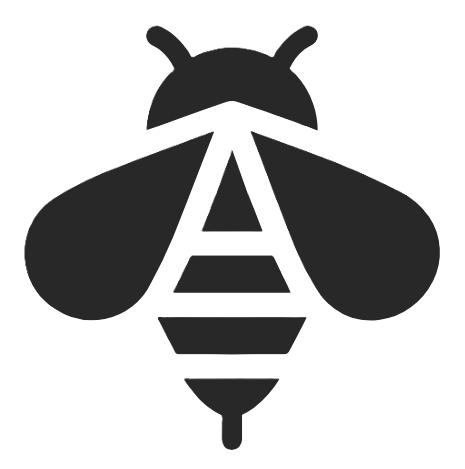
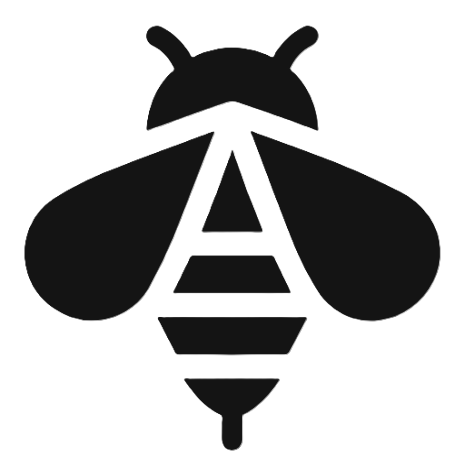
Adjust Colors

diff --git a/styles.css b/styles.css
@@ -21,6 +21,7 @@ h2.recent-calculations {
     --footer-gap: clamp(0.5rem, 1vw, 0.8rem);
     --header-h: 52px;
     --footer-h: 52px;
+    --header-gap: clamp(0.25rem, 0.6vw, 0.4rem);
 }
 
 * {
@@ -47,7 +48,7 @@ h2.recent-calculations {
     height: calc(var(--header-h) - 13px);
     border-radius: 50%;
     object-fit: cover;
-    border: 2px solid #333333;
+    border: 2px solid var(--ink);
     flex-shrink: 0;
     margin-top: 0.1rem;
 }
@@ -97,8 +98,8 @@ body {
     overflow: hidden;
     padding: var(--shell-gap);
     margin-bottom: 0;
-    height: calc(100dvh - var(--header-h) - var(--footer-h) - var(--footer-gap));
-    max-height: calc(100dvh - var(--header-h) - var(--footer-h) - var(--footer-gap));
+    height: calc(100dvh - var(--header-h) - var(--header-gap) - var(--footer-h) - var(--footer-gap));
+    max-height: calc(100dvh - var(--header-h) - var(--header-gap) - var(--footer-h) - var(--footer-gap));
     display: grid;
     grid-template-columns: minmax(0, 280px) minmax(0, 1fr) minmax(0, 1fr);
     grid-template-areas: "history center board";
@@ -184,7 +185,7 @@ small,
     border: 0;
     background: transparent;
     color: var(--ink);
-    font-size: clamp(1rem, 2.6vw, 1.1rem);
+    font-size: clamp(1rem, 2.6vw, 0.9rem);
     font-family: inherit;
     outline: none;
 }
@@ -380,7 +381,7 @@ button:active {
     height: 1.2rem;
     border: 0;
     background: transparent;
-    color: #6a4b09;
+    color: var(--ink);
     font-size: 1rem;
     font-weight: 700;
     line-height: 1;
@@ -409,7 +410,7 @@ button:active {
     resize: none;
     padding: 2.3rem 0.68rem 0.68rem;
     font: 600 0.9rem/1.4 Arial, Helvetica, sans-serif;
-    color: #000000;
+    color: var(--ink);
     background: transparent;
     outline: none;
 }
